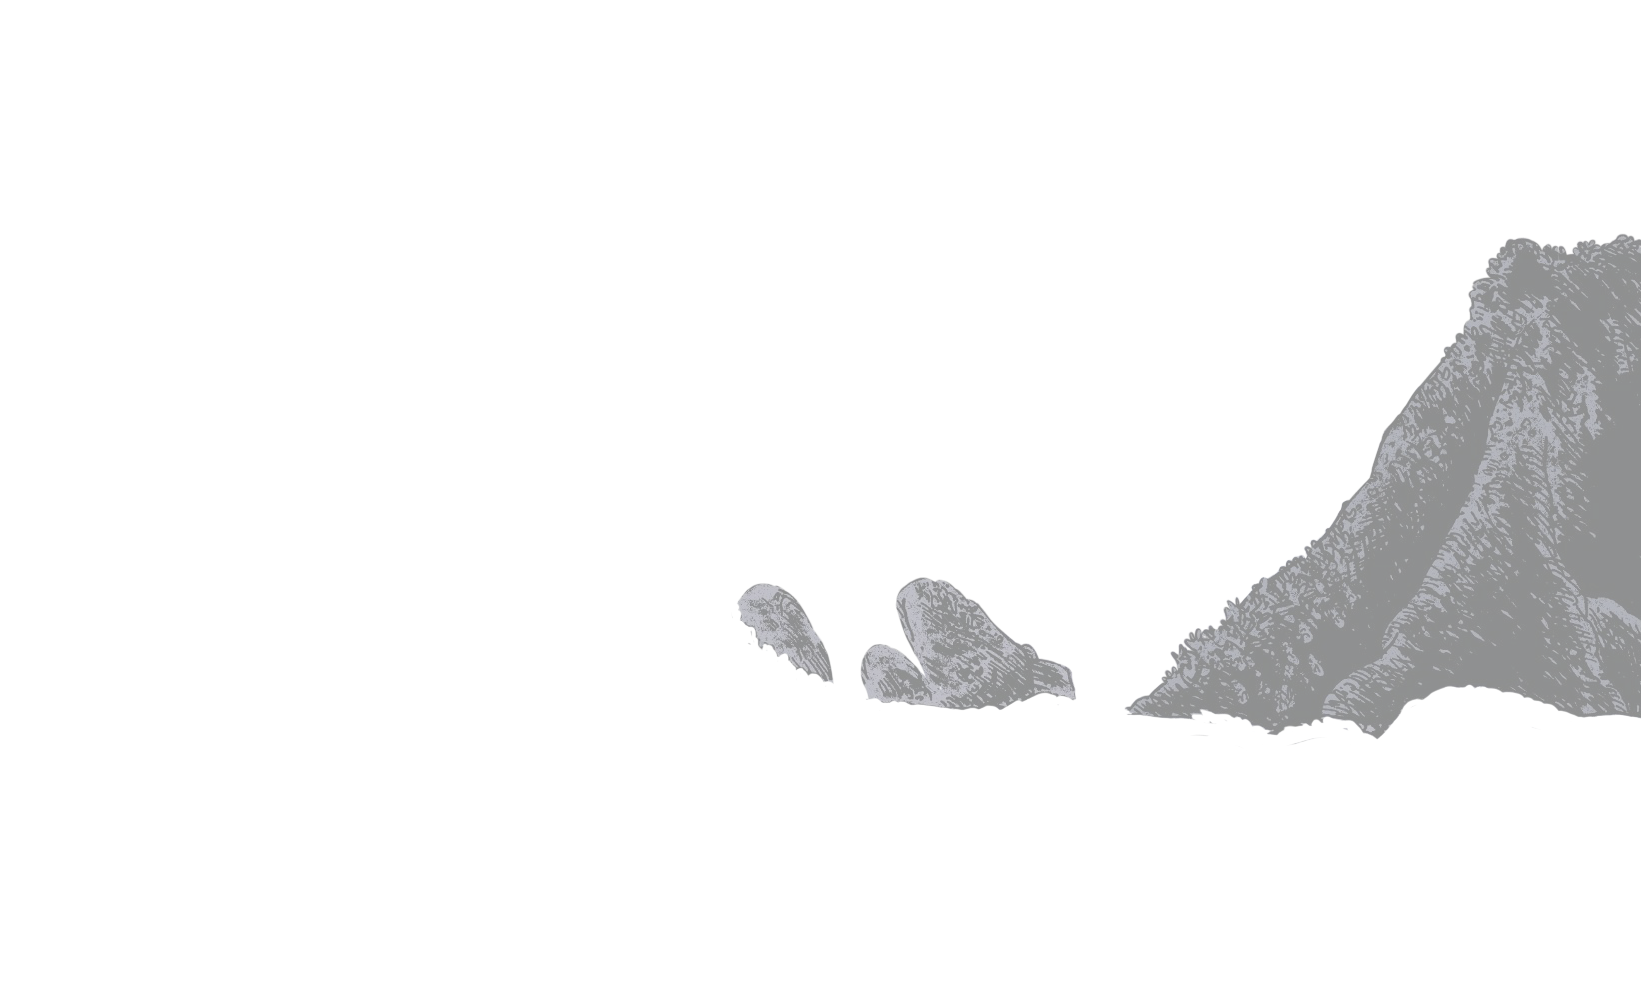
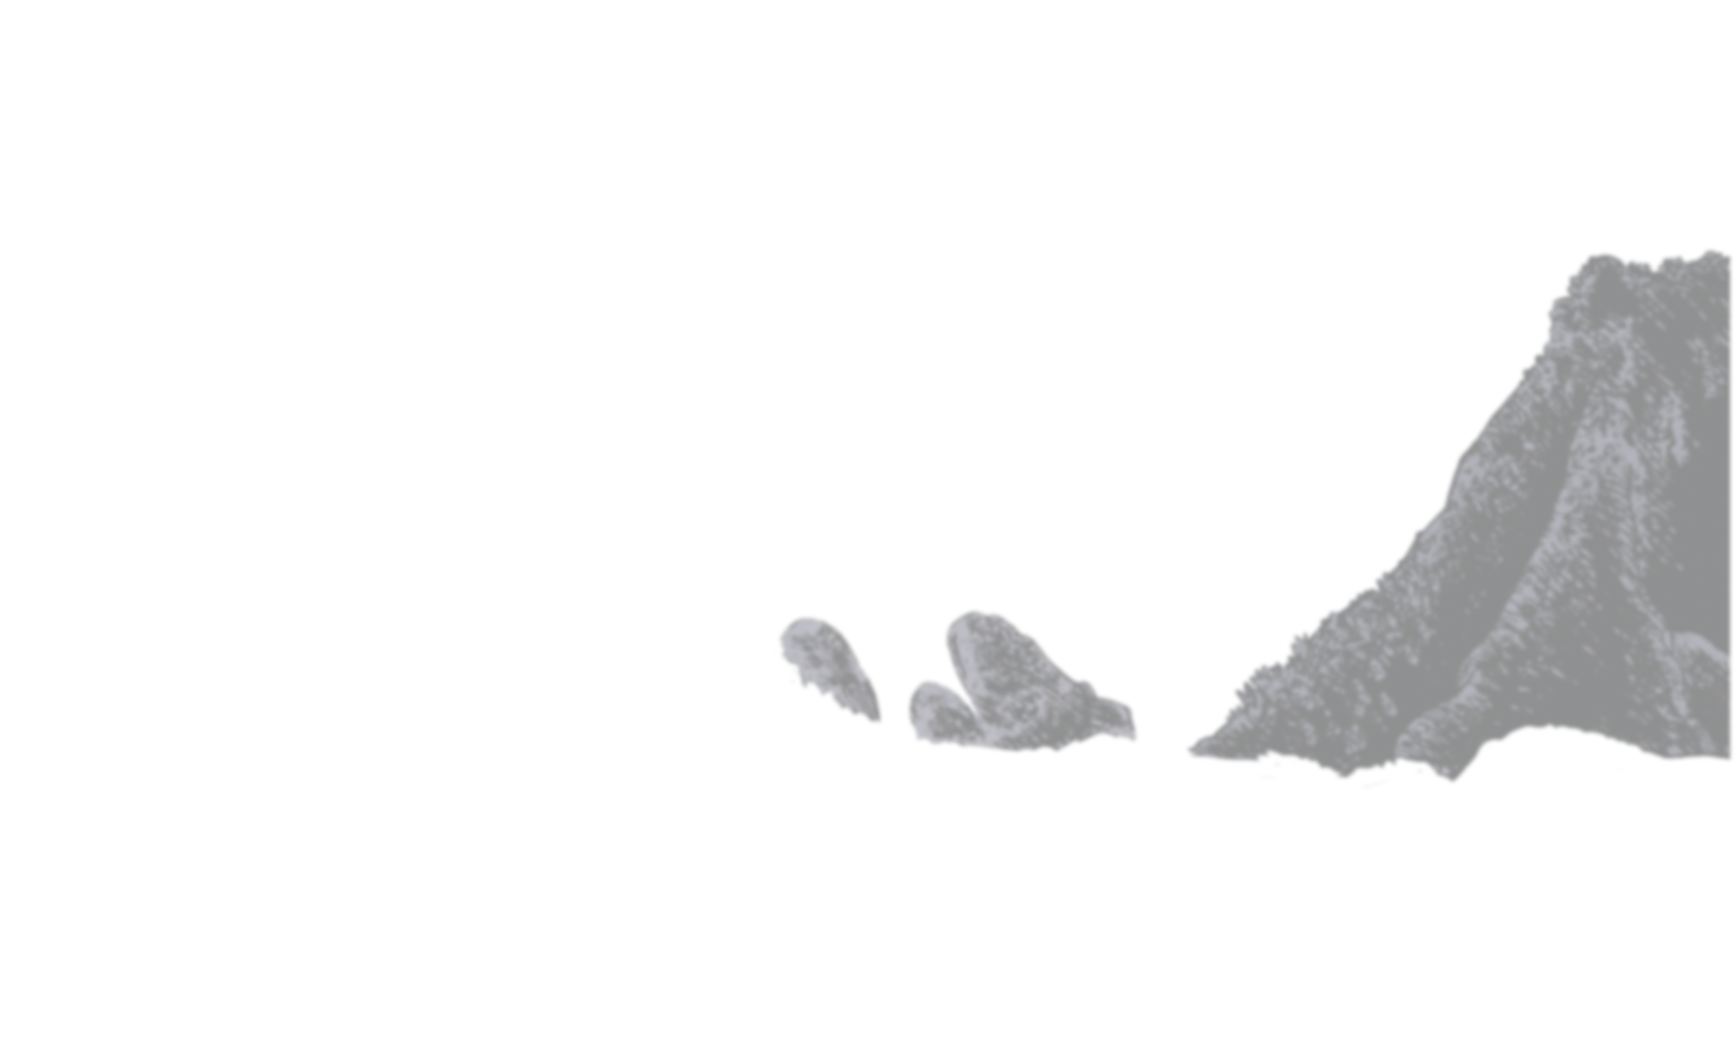
détail bouton et background end

diff --git a/src/scss/modules/_end-section.scss b/src/scss/modules/_end-section.scss
@@ -1,16 +1,3 @@
-.end-container {
-  button {
-    padding: 20px 35px;
-    border-radius: 9px;
-    border: 3px solid #c7b3ce;
-    background: rgba(255, 255, 255, 0.66);
-    backdrop-filter: blur(15.050000190734863px);
-    font-family: "Novel Sans Pro";
-    font-size: 29px;
-    font-weight: 500;
-  }
-}
-
 .end-text-container {
   padding-top: 12px; /*j'ai arrondi par rapport à la maquette*/
   font-family: "Novel Sans Pro";
@@ -49,9 +36,7 @@
 
 .end-section {
   padding: 918px 0 42px;
-  background-image: url(../img/section-end/background-1.png),
-    url(../img/section-end/background-2.png),
-    url(../img/section-end/background-3.png);
+  background-image: url(../img/section-end/background-1.png);
   background-position: bottom;
   background-repeat: no-repeat;
   img {

diff --git a/src/scss/modules/_button.scss b/src/scss/modules/_button.scss
@@ -24,3 +24,16 @@
   );
   color: white;
 }
+
+.end-container {
+  button {
+    padding: 12px 24px; // je trouvais les padding un peu grand dans la maquette alors j'ai changé un peu
+    border-radius: 9px;
+    border: 3px solid #c7b3ce;
+    background: rgba(255, 255, 255, 0.66);
+    backdrop-filter: blur(15.050000190734863px);
+    font-family: "Novel Sans Pro";
+    font-size: 29px;
+    font-weight: 500;
+  }
+}
